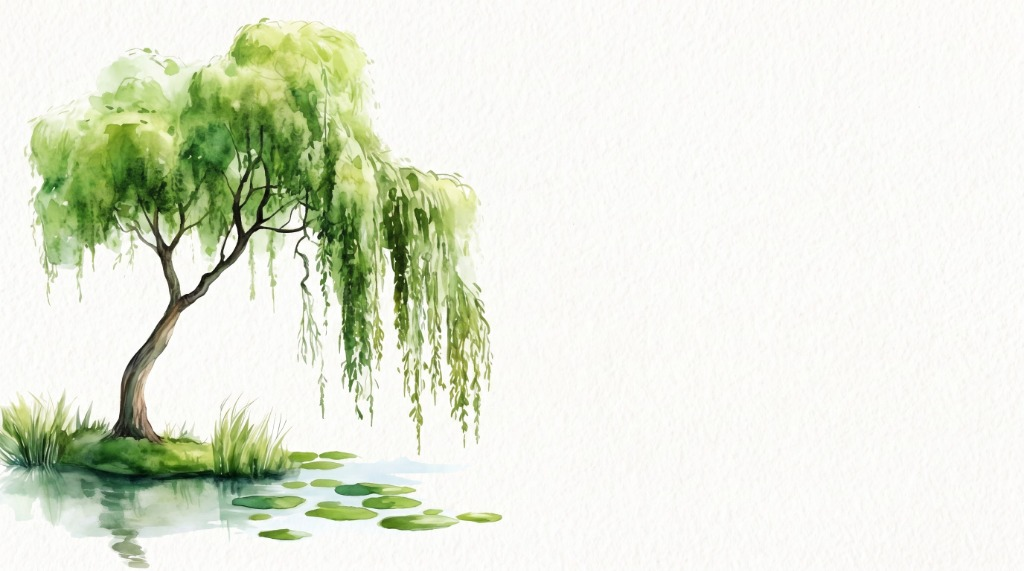
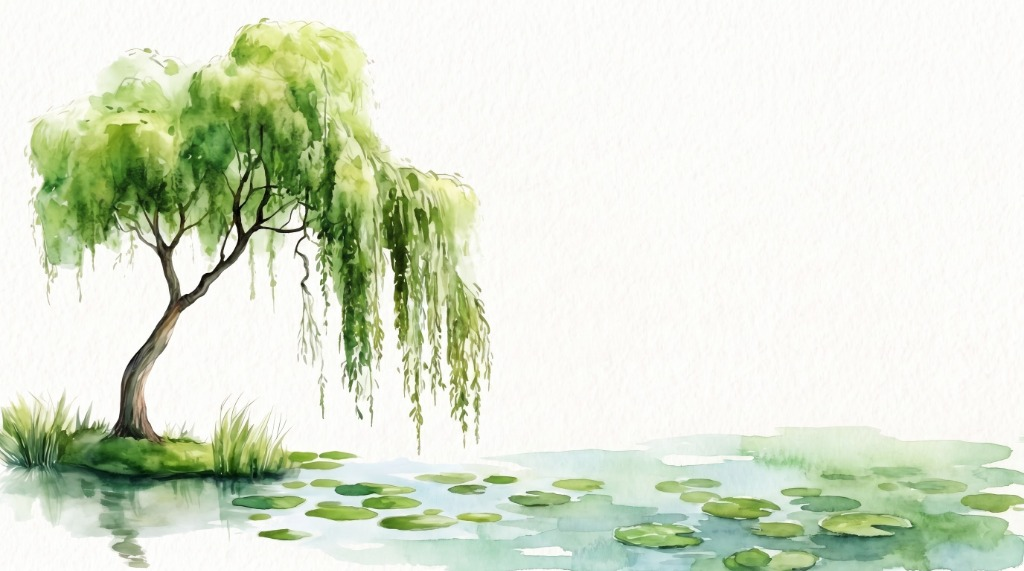
feat: replace Education background with user-provided watercolor artwork and update styling to match natural paper texture

diff --git a/css/styles.css b/css/styles.css
@@ -2577,7 +2577,7 @@ a, button, [role="button"], input, select, textarea, .project-column-item, .proj
     justify-content: flex-end;
     position: relative;
     z-index: 3;
-    background-color: #F3EBD8;
+    background-color: #FDFDFB;
     padding: 5rem 8%;
     box-sizing: border-box;
     box-shadow: 0 -20px 40px rgba(0, 0, 0, 0.06);
@@ -2595,21 +2595,12 @@ a, button, [role="button"], input, select, textarea, .project-column-item, .proj
     display: flex;
     align-items: center;
     justify-content: center;
-    background: #F3EBD8;
-    background: linear-gradient(135deg, #FAF5E8 0%, #F3EBD8 45%, #EBE0C4 100%);
+    background-color: #FDFDFB;
     will-change: transform, opacity;
 }
 
 .edu-storybook-backdrop::after {
-    content: '';
-    position: absolute;
-    top: 0;
-    left: 0;
-    width: 100%;
-    height: 100%;
-    background: radial-gradient(ellipse at 75% 50%, rgba(250, 245, 232, 0.15) 0%, rgba(243, 235, 216, 0.45) 60%, rgba(228, 216, 192, 0.75) 100%);
-    pointer-events: none;
-    mix-blend-mode: multiply;
+    display: none;
 }
 
 .edu-storybook-img {
@@ -2618,8 +2609,6 @@ a, button, [role="button"], input, select, textarea, .project-column-item, .proj
     object-fit: cover;
     object-position: center center;
     display: block;
-    mix-blend-mode: multiply;
-    filter: brightness(0.99) contrast(1.02);
     will-change: transform, opacity;
 }
 

diff --git a/index.html b/index.html
@@ -13,7 +13,7 @@
         href="https://fonts.googleapis.com/css2?family=Almendra:ital,wght@0,400;0,700;1,400;1,700&family=Cinzel+Decorative:wght@700;900&family=Cormorant+Garamond:ital,wght@0,500;0,600;0,700;1,500;1,600&family=Fondamento:ital@0;1&family=Outfit:wght@800;900&family=Playfair+Display:ital,wght@0,600;0,700;0,800;1,600;1,700&family=Plus+Jakarta+Sans:ital,wght@0,300..900;1,300..900&family=Space+Grotesk:wght@400;500;600;700;800&family=Caveat:wght@600;700&display=swap"
         rel="stylesheet">
 
-    <link rel="stylesheet" href="css/styles.css?v=20260905_beige_paper">
+    <link rel="stylesheet" href="css/styles.css?v=20260907_new_bg">
 </head>
 
 <body>
@@ -127,7 +127,7 @@
         <!-- Chapter: Education (Vintage Storybook Editorial Spread) -->
         <section id="education" class="story-chapter education-storybook-section">
             <div class="edu-storybook-backdrop">
-                <img src="assets/images/education_willow_tree_bg.jpg?v=20260905_exp_align" alt="Watercolor weeping willow tree beside pond with lily pads" class="edu-storybook-img">
+                <img src="assets/images/education_willow_tree_bg.jpg?v=20260907_new_bg" alt="Watercolor weeping willow tree beside pond with lily pads" class="edu-storybook-img">
             </div>
 
             <div class="edu-content-right-container">
